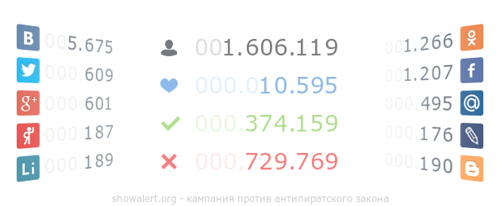
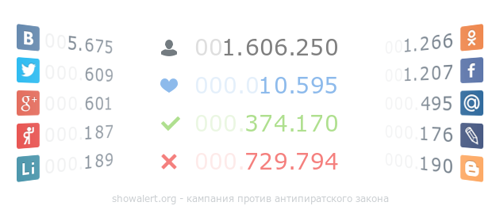
some updates

Changed region(s): [[0.6, 0.7282, 0.69, 0.8447], [0.6, 0.5534, 0.69, 0.6408], [0.6, 0.1748, 0.69, 0.2621]]

diff --git a/votes.js b/votes.js
@@ -1,1 +1,1 @@
-window.lk.votes(23873)
+window.lk.votes(23879)
